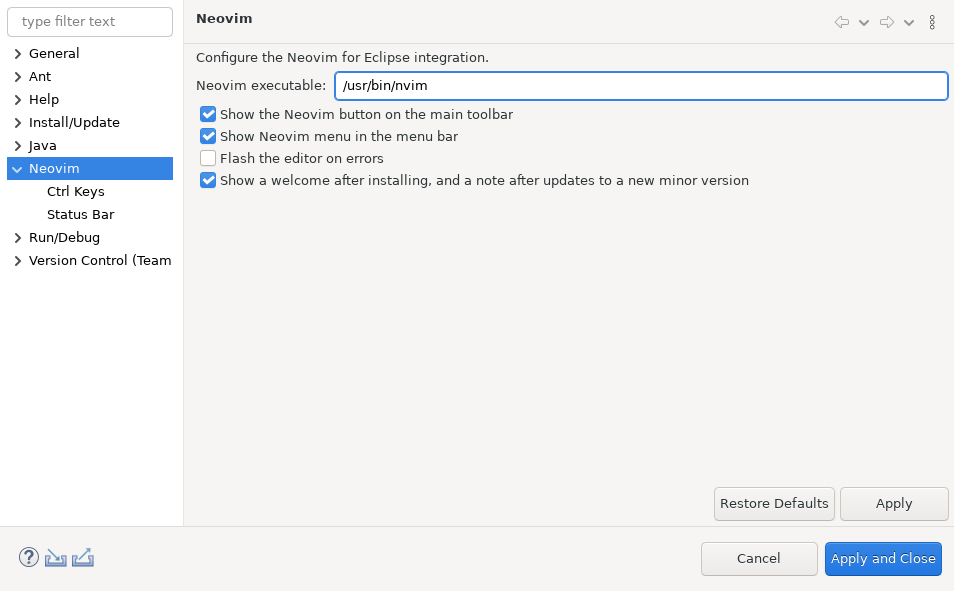
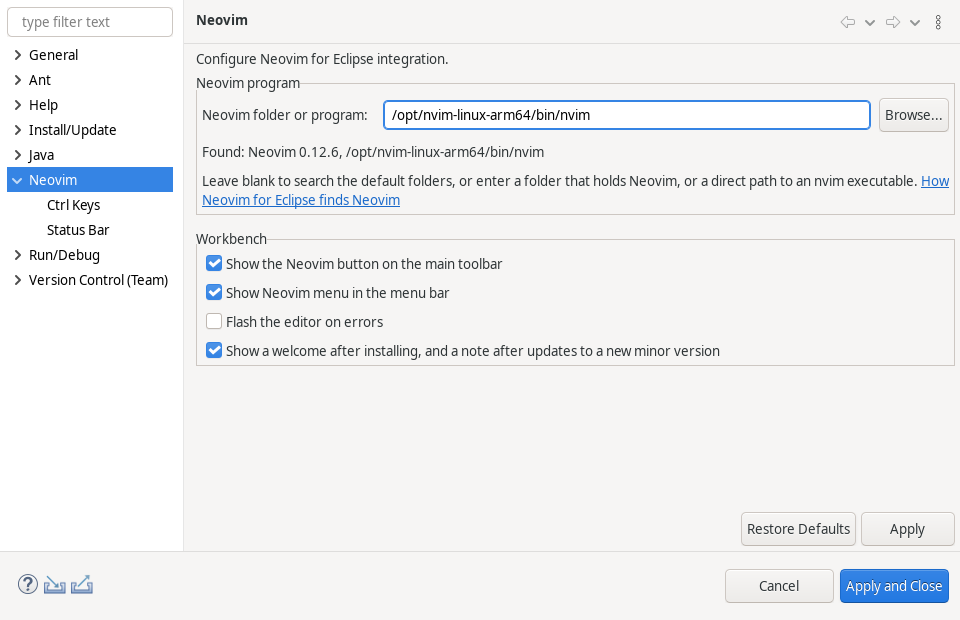
Retake the preferences screenshot: two groups, a neutral Neovim path
docs/images/screenshot-preferences.png still showed the old "Neovim
executable" field. Retaken with -Pscreenshots, with Neovim 0.12.6 shown at
/opt/nvim-linux-arm64 through a private mount namespace, so the field and
its Found note name no home folder. MARKETPLACE.md says how, and no longer
suggests /usr/bin/nvim, which is older than the minimum on many systems.

diff --git a/docs/design/MARKETPLACE.md b/docs/design/MARKETPLACE.md
@@ -260,7 +260,7 @@ the limits before installing review and report fewer surprises.
   with its own profile, which adds the Java tools for a highlighted Java editor:
 
   ```bash
-  xvfb-run -a -s "-screen 0 1600x1000x24" ./mvnw verify -Pscreenshots -Dnvim.path=/usr/bin/nvim
+  xvfb-run -a -s "-screen 0 1600x1000x24" ./mvnw verify -Pscreenshots -Dnvim.path=/opt/nvim-linux-x86_64/bin/nvim
   cp tests/io.github.jm6cnddxbwftaks.neovim4eclipse.tests/target/screenshots/01-visual-mode.png docs/images/screenshot-visual-mode.png
   cp tests/io.github.jm6cnddxbwftaks.neovim4eclipse.tests/target/screenshots/02-command-line.png docs/images/screenshot-command-line.png
   cp tests/io.github.jm6cnddxbwftaks.neovim4eclipse.tests/target/screenshots/03-preferences.png docs/images/screenshot-preferences.png
@@ -268,6 +268,20 @@ the limits before installing review and report fewer surprises.
 
   Xvfb's `-screen` gives it room for the 1280×800 window in full color (its default is 640×480 at
   8 bits). They show Eclipse's default light theme on Linux/GTK, without a window title bar.
+
+  The preference page shows `-Dnvim.path` in its field and its *Found:* note, so use a Neovim
+  (`NeovimVersion.MINIMUM` or newer, or the note turns red) at a path that names no one: not one under
+  your home folder. Without write access to `/opt`, a private mount namespace shows your own Neovim
+  there for this one build, changing nothing on the system (Linux; used for the 2026-10-30 retake):
+
+  ```bash
+  NV=$(readlink -f ~/.local/share/neovim4eclipse-plugin/neovim/current)   # its top folder, e.g. nvim-linux-arm64_0.12.6
+  unshare -rm sh -c "mount -t tmpfs tmpfs /opt && mkdir /opt/nvim-linux-arm64 && mount --bind '$NV' /opt/nvim-linux-arm64 &&
+    exec unshare -U --map-user=$(id -u) --map-group=$(id -g) sh -c \"xvfb-run -a -s '-screen 0 1600x1000x24' ./mvnw verify -Pscreenshots -Dnvim.path=/opt/nvim-linux-arm64/bin/nvim\""
+  ```
+
+  The outer `unshare -rm` is root in a new user and mount namespace, which may mount; the inner one
+  maps you back to your own user id, so Maven finds `~/.m2` and writes files you own.
 - The README demo GIF, recorded by hand.
 
 ## Phase 3: account, submission, test
